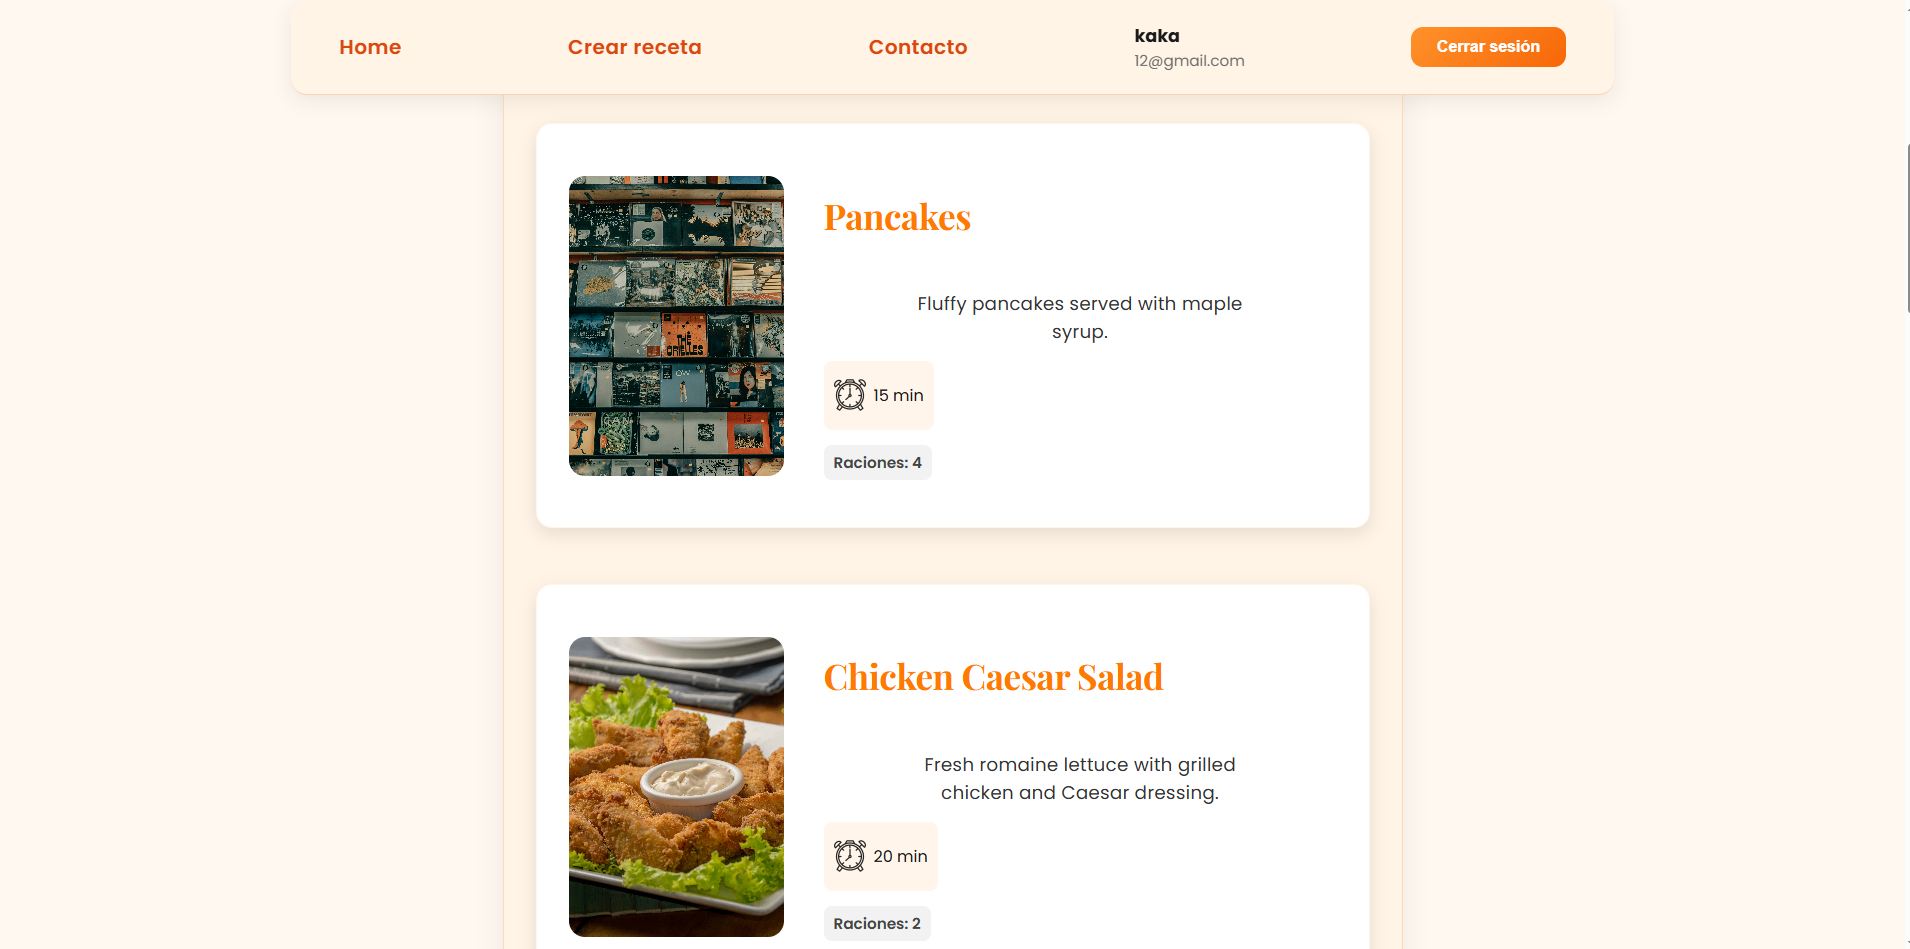
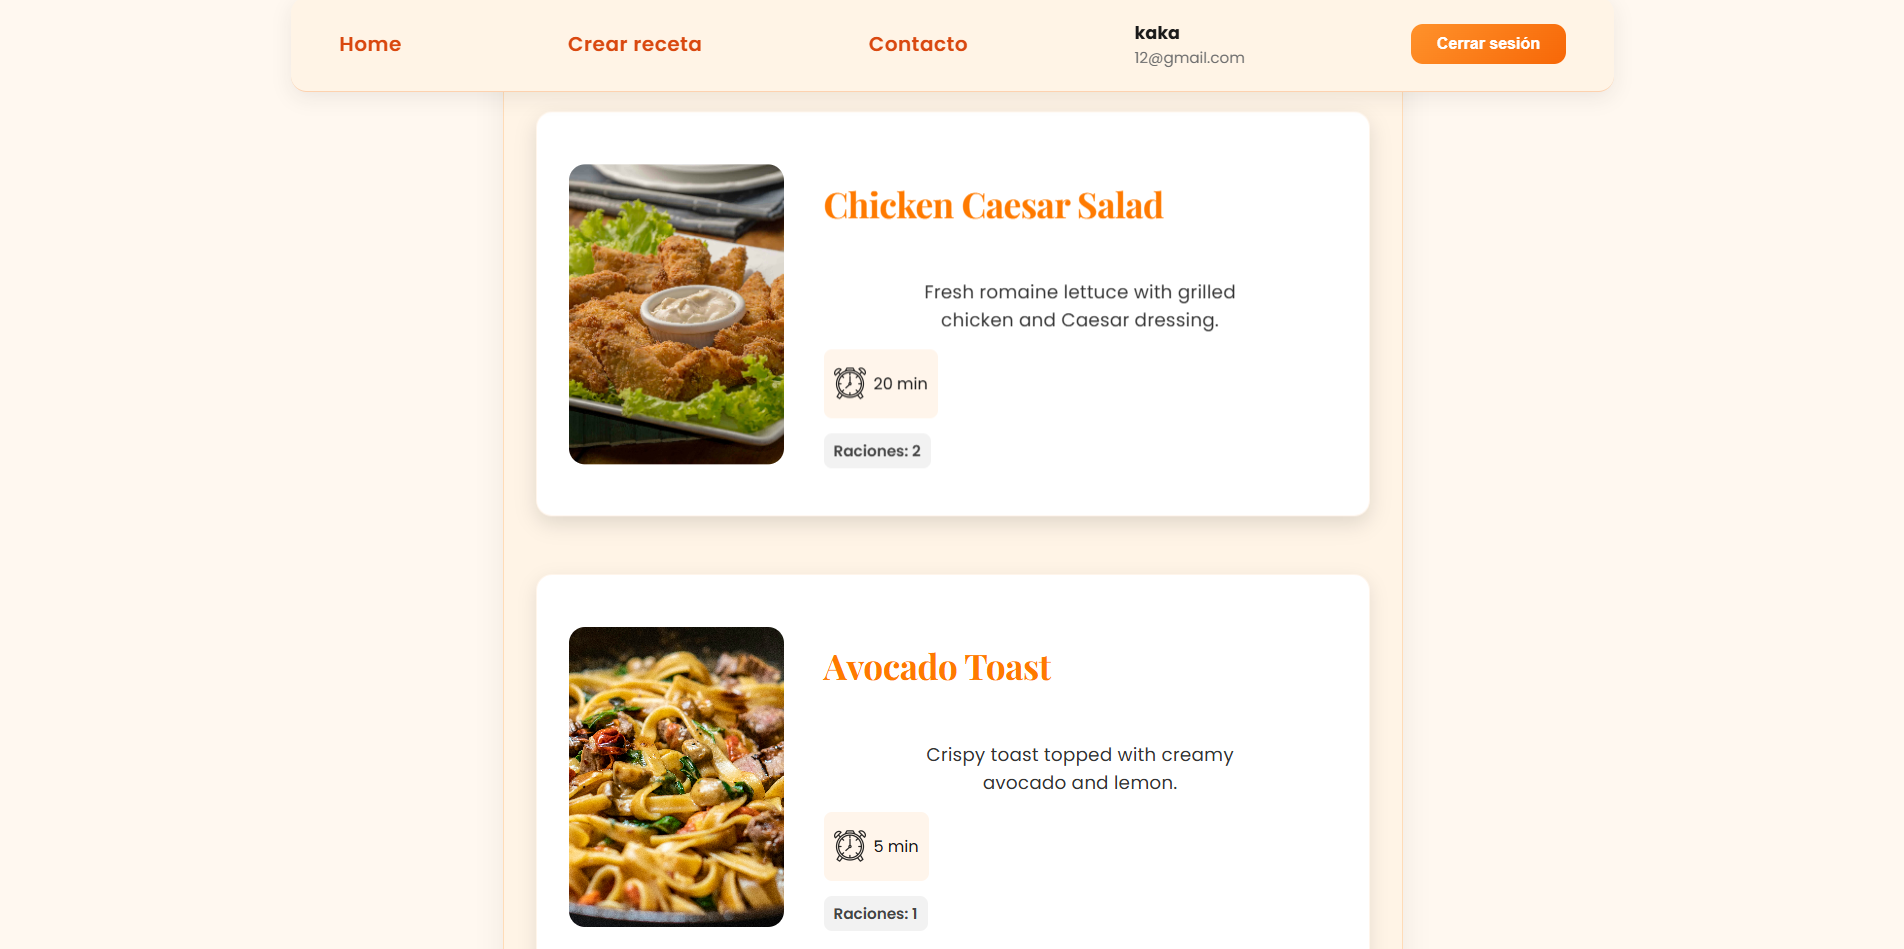
readmefixed & notFound

diff --git a/src/App.jsx b/src/App.jsx
@@ -12,6 +12,7 @@ import RecipePage from "./pages/RecipePage/RecipePage";
 import CreateRecipePage from "./pages/CreateRecipePage/CreateRecipePage";
 import HomePage from "./pages/HomePage/HomePage";
 import ContactPage from "./pages/ContactPage/ContactPage";
+import NotFoundPage from "./pages/NotFoundPage/NotFoundPage";
 
 function App() {
   return (
@@ -21,10 +22,9 @@ function App() {
           <Route path="/" element={<SignupPage />} />
           <Route path="/login" element={<LoginPage />} />
           <Route path="/recipe/:recipeId" element={<RecipePage />} />
-          <Route path="/home" element={<HomePage   />} />
-          <Route path="/contact" element={<ContactPage   />} />
-          
-          
+          <Route path="/home" element={<HomePage />} />
+          <Route path="/contact" element={<ContactPage />} />
+
           <Route
             path="/profile/:id"
             element={
@@ -41,6 +41,8 @@ function App() {
               </PrivateRoute>
             }
           />
+
+          <Route path="*" element={<NotFoundPage />} />
         </Routes>
       </BrowserRouter>
     </Provider>

diff --git a/src/pages/NotFoundPage/NotFoundPage.jsx b/src/pages/NotFoundPage/NotFoundPage.jsx
@@ -1,0 +1,20 @@
+import React from "react";
+import Navbar from "../../components/Navbar/Navbar";
+
+const NotFoundPage = () => {
+  return (
+    <>
+      <Navbar />
+      <div className="notfound">
+        <h1 className="notfound_title">404</h1>
+        <h2 className="notfound_subtitle">Page Not Found</h2>
+        <p className="notfound_text">
+          The page you are trying to access doesn’t exist, was removed, or is
+          temporarily unavailable.
+        </p>
+      </div>
+    </>
+  );
+};
+
+export default NotFoundPage;

diff --git a/src/styles/NotFoundPage.scss b/src/styles/NotFoundPage.scss
@@ -1,0 +1,28 @@
+.notfound {
+  width: 100%;
+  min-height: calc(100vh - 80px); 
+  display: flex;
+  flex-direction: column;
+  justify-content: center;
+  align-items: center;
+  text-align: center;
+  padding: 2rem;
+}
+
+.notfound_title {
+  font-size: 5rem;
+  font-weight: 800;
+  margin-bottom: 0.5rem;
+}
+
+.notfound_subtitle {
+  font-size: 1.8rem;
+  font-weight: 600;
+  margin-bottom: 1rem;
+}
+
+.notfound_text {
+  max-width: 500px;
+  font-size: 1rem;
+  opacity: 0.7;
+}

diff --git a/src/styles/App.scss b/src/styles/App.scss
@@ -9,6 +9,7 @@
 @import "./CreateRecipePage.scss";
 @import "./HomePage.scss";
 @import "./ContactPage.scss"; 
+@import "./NotFoundPage.scss";
 body{
   background-color: $cream;
 }

diff --git a/README.md b/README.md
@@ -144,7 +144,8 @@ API calls are centralized in the `api/` folder.
 
 ---
 
-##  Images ### Home Page ![Home Page](./src/projectImg/HomePagePhoto.png)
+##  Images
+ ### Home Page ![Home Page](./src/projectImg/HomePagePhoto.png)
  ### Recipe Details ![Recipe Details](./src/projectImg/RecipePagePhoto.png) 
  ### Create Recipe Form ![Create Recipe Form](./src/projectImg/CreateRecipePagePhoto.png)
 
